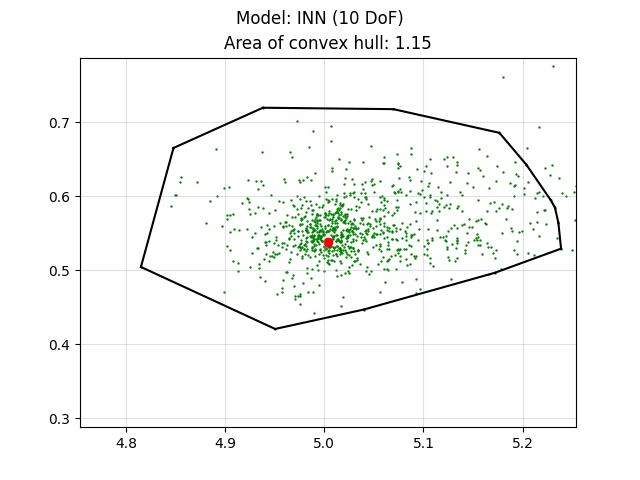
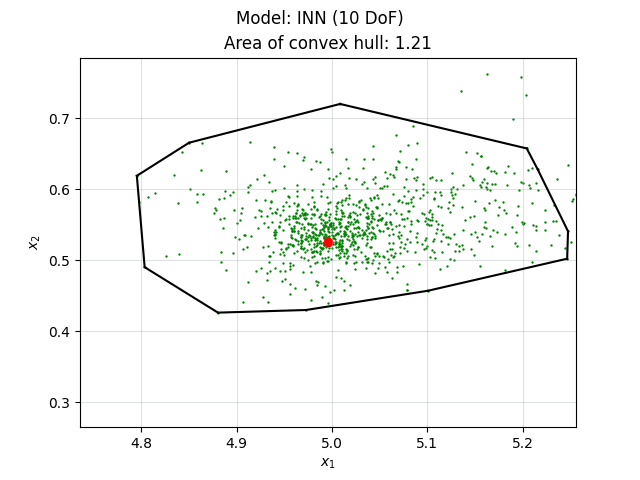
Improved q quantile prediction images

diff --git a/src/test.py b/src/test.py
@@ -42,11 +42,13 @@ if __name__ == '__main__':
 
     DATASET_SAMPLES = 1e6
     N = 1000
-    M = 100
+    M = 1000
     percentile = 0.97
     STD = 0.2
     NORMAL = True
     # idx of posterior distribution to plot
+    # 5 for 6 DoF
+    # 232489 for 10 DoF
     TO_PLOT = 5
 
     ####################################################################################################################
@@ -84,10 +86,8 @@ if __name__ == '__main__':
     TRAIN_SAMPLES = int(0.7 * DATASET_SAMPLES)
     TEST_SAMPLES = int(0.3 * DATASET_SAMPLES)
     # ensures that models are trained and tested on the same samples
-    # use same seed as in train mode
     torch.manual_seed(42)
-    # seed used for plotting
-    # torch.manual_seed(1)
+
 
     train_dataset, test_dataset = torch.utils.data.random_split(dataset, [TRAIN_SAMPLES, TEST_SAMPLES])
     test_dataloader = DataLoader(test_dataset, batch_size=config['batch_size'], shuffle=True, num_workers=4)

diff --git a/src/utils.py b/src/utils.py
@@ -154,11 +154,14 @@ def plot_contour_lines(points, gt, PATH, title="", percentile=0.97):
     plt.suptitle(title)
     plt.grid(True, color="#93a1a1", alpha=0.3)
     # define axis limits dynamically
-    plt.axis([gt[0]-0.25, gt[0]+0.25, gt[1]-0.25, gt[1]+0.25])
+    border = 0.1
+    plt.axis([gt[0]-border, gt[0]+border, gt[1]-border, gt[1]+border])
     plt.scatter(points[:, 0], points[:, 1], c='g', s=0.5)
     plt.scatter(gt[0], gt[1], c='r')
     for simplex in hull.simplices:
         plt.plot(selected_points[simplex, 0], selected_points[simplex, 1], 'k-')
+    plt.xlabel("$x_1$")
+    plt.ylabel("$x_2$")
     plt.savefig(PATH)
 
 def rejection_sampling(robot, tcp, dof, samples):
